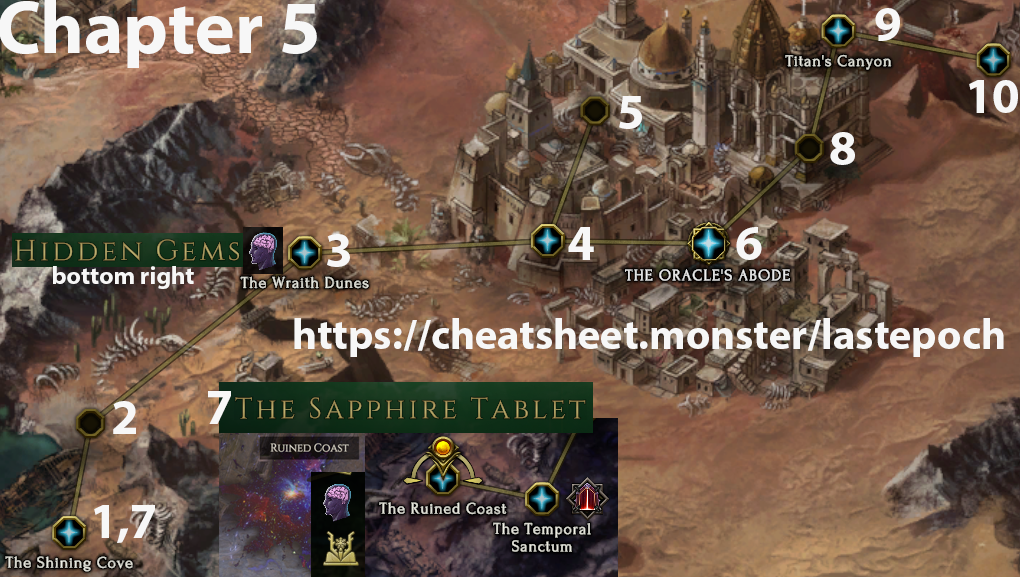
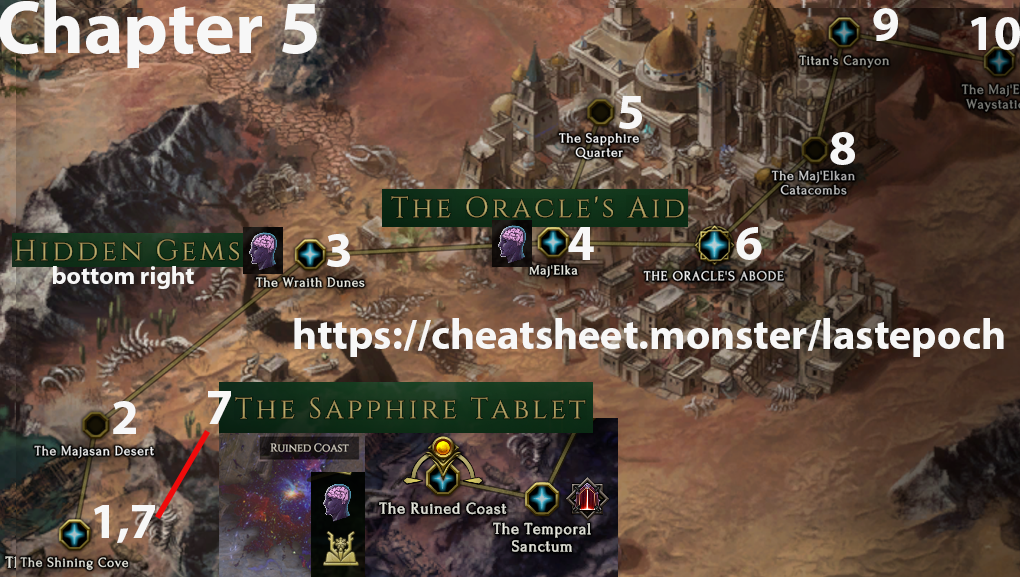
added ch 5

diff --git a/lastepoch/script.js b/lastepoch/script.js
@@ -2,30 +2,30 @@ function fetchCsvData() {
   let rawData =
  `Chapter,Step,Reward
 Chapter 1,Go to the Burning Forest,
-Chapter 1,The Keepers,Passive
+Chapter 1,The Keepers,"Experience,Gold,Passive"
 Chapter 1,Go to The Fortress Gardens,
 Chapter 1,Go to the Fortress Walls,
-Chapter 1,Go to The Storerooms -> Storeroom Saboteurs,Passive
-Chapter 1,Go to the The Keeper Vault -> The Keeper Vault,Passive
+Chapter 1,Go to The Storerooms -> Storeroom Saboteurs,"Passive"
+Chapter 1,Go to the The Keeper Vault -> The Keeper Vault,"Experience,Passive"
 Chapter 1,Go to the Northern Road,
 Chapter 1,Town Portal,
 Chapter 1,Go to Ulatri Highlands,
 Chapter 1,Go to The Osprix Warcamp,
 Chapter 1,Go to The Summit,
-Chapter 2,Go to Last Refuge Outskirts -> Evacuation,Passive
-Chapter 2,In Last Refuge Outskirts -> The Void Assault,Idol
+Chapter 2,Go to Last Refuge Outskirts -> The Void Assault,"Experience,Gold,Idol"
+Chapter 2,In Last Refuge Outskirts -> Evacuation,"Experience,Gold,Passive"
 Chapter 2 ,Go to The Council Chambers,
 Chapter 2 ,Go to The Last Archive,
 Chapter 2 ,Go to Erza's Library -> Get Ledger,
 Chapter 2,Go to Pannion's Study,
-Chapter 2,Finding Pannion,Passive
+Chapter 2,Finding Pannion,"Experience,Gold,Passive"
 Chapter 2,Town Portal,
-Chapter 2 ,"Erza = Gloves (Ele Leech), Artem = Amulet (Crit)","Unique,Passive"
+Chapter 2 ,"Erza = Gloves (Ele Leech), Artem = Amulet (Crit)","Experience,Gold,Passive,Unique"
 Chapter 2 ,Go to The Precipice,
 Chapter 2 ,Go to The Armoury,
 Chapter 2 ,Go to The Lower District,
 Chapter 2 ,Go to The End of Time,
-Chapter 2 ,The Power of Mastery,"Mastery,Passive"
+Chapter 2 ,The Power of Mastery,"Experience,Passive,Mastery"
 Chapter 3 ,Skip all Sidequests,
 Chapter 3 ,Go to Council Chamber,
 Chapter 3 ,Go to The Sheltered Wood,
@@ -48,21 +48,24 @@ Chapter 4 ,Go to The Outcast Camp,
 Chapter 4 ,Go to Welryn Outskirts,
 Chapter 4 ,Go to Imperial Welryn,
 Chapter 4 ,Go to The Soul Wardens' Road,
-Chapter 4 ,Go to The Risen Lake -> The Corrupted Lake (Rift),"Passive,Idol"
+Chapter 4 ,Go to The Risen Lake -> The Corrupted Lake (Rift),"Experience,Passive,Idol"
 Chapter 4 ,Go to The Fallen Tower,
 Chapter 4 ,Go to Imperial Thetima,
 Chapter 4 ,Go to The Darkling Pier,
 Chapter 4 ,Go to The Imperial Dreadnought,
 Chapter 4 ,Go to The Dreadnought's Deck,
-Chpater 4 ,Jump off the Deck! -> The Admiral's Dreadnought,Idol
-Chapter 5 ,Go to Maj'Elka Do Main Quest,
-Chapter 5 ,Go to Oracle's Abode,
-Chapter 5 ,Port to The Shining Cove and take Time Rift ,
-Chapter 5 ,Kill Miniboss,
-Chapter 5 ,Go to the Temporal Sanctum,
-Chapter 5 ,(Optional for ultimate speed to skip straight to Chapter 9),
-Chapter 5 ,Farm a Temporal Sanctum Key in Monoliths,
-Chapter 5 ,Do Temporal Dungeon,
+Chpater 4 ,Jump off the Deck! -> The Admiral's Dreadnought,"Experience,Gold,Idol"
+Chapter 5 ,Go to The Shining Cove,
+Chapter 5 ,Go to The Majasan Desert,
+Chapter 5 ,Go to The Wraith Dunes -> Hidden Gems (bottom right),"Experience,Gold,Passive"
+Chapter 5 ,Go to Maj'Elka,
+Chapter 5 ,Go to The Oracles Abode,"Experience,Gold,Passive"
+Chapter 5 ,Go to the Shining Cove and find the Time Rift,
+Chapter 5 ,Go to the Ruined Coast (Rift) -> The Sapphire Tablet,"Experience,Passive,Idol" 
+Chapter 5 ,Go to The Temporal Sanctum WP -> Back to The Oracle's Abode,
+Chapter 5 ,Go to The Maj'Elkan Catacombs,
+Chapter 5 ,Go to Titan's Canyon,
+Chapter 5 ,Go to The Maj'Elka Waystation,
 Chapter 6 ,Talk to 1 NPC un Yula's Heaven,
 Chapter 7 ,Do Liberating the Nomads in Wengari Fortress by clicking on a NPC,
 Chapter 7 ,Go back to Heobera and move on to The Temple of Heorot,
@@ -144,7 +147,7 @@ function buildTableForChapter(chapterFilter, data) {
 document.addEventListener('DOMContentLoaded', function() {
   const data = fetchCsvData();
 
-  let chapterCount = 4;
+  let chapterCount = 5;
   for (let i = 1; i <= chapterCount; i++) {
       document.getElementById(`chapter${i}Section`).innerHTML = buildTableForChapter(`Chapter ${i}`, data);
   }

diff --git a/lastepoch/index.html b/lastepoch/index.html
@@ -294,7 +294,7 @@
         <summary class="collapsible" id="leveling">Chapter 5</summary>
     <figure>
         <img alt='Leveling Chapter 5' src='./pics/LastEpochLvlingCheatsheetChapter5.png' style='max-width:100%;' onclick="on(this)" data-enlarge-height="80%" data-enlarge-width="90%">
-        <!-- <div id="chapter5Section"></div> -->
+        <div id="chapter5Section"></div>
     </figure>
     <br/>
     </details>

diff --git a/lastepoch/updateData.js b/lastepoch/updateData.js
@@ -1,8 +1,8 @@
 const fs = require('fs');
 const Papa = require('path');
 
-const csvFilePath = './data/leveling.csv'; // Path to your CSV file
-const jsFilePath = './script.js'; // Path to your JavaScript file
+const csvFilePath = './data/leveling.csv'; 
+const jsFilePath = './script.js'; 
 
 
 
